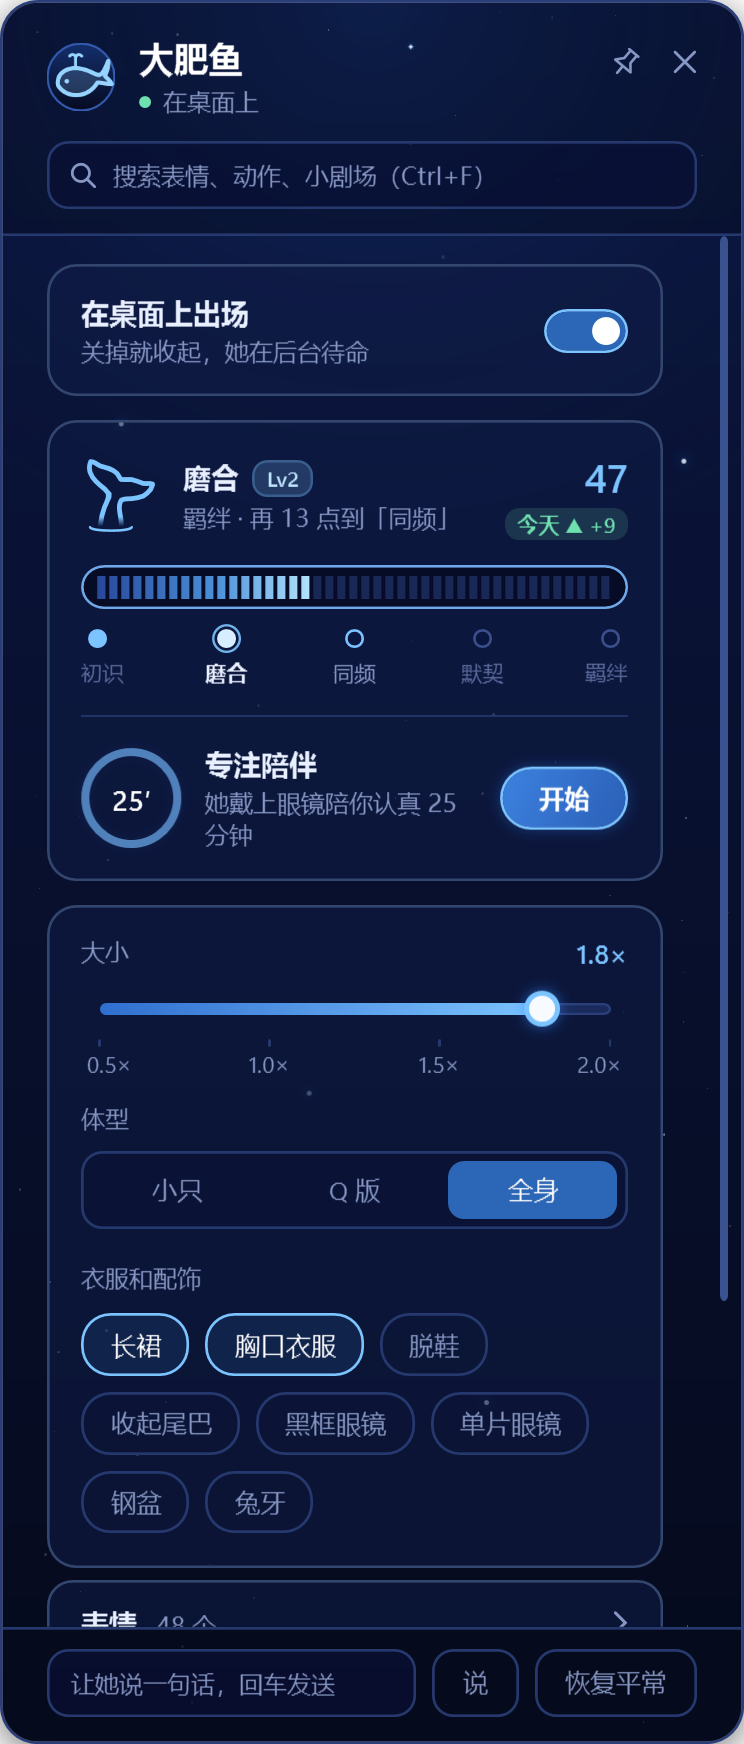
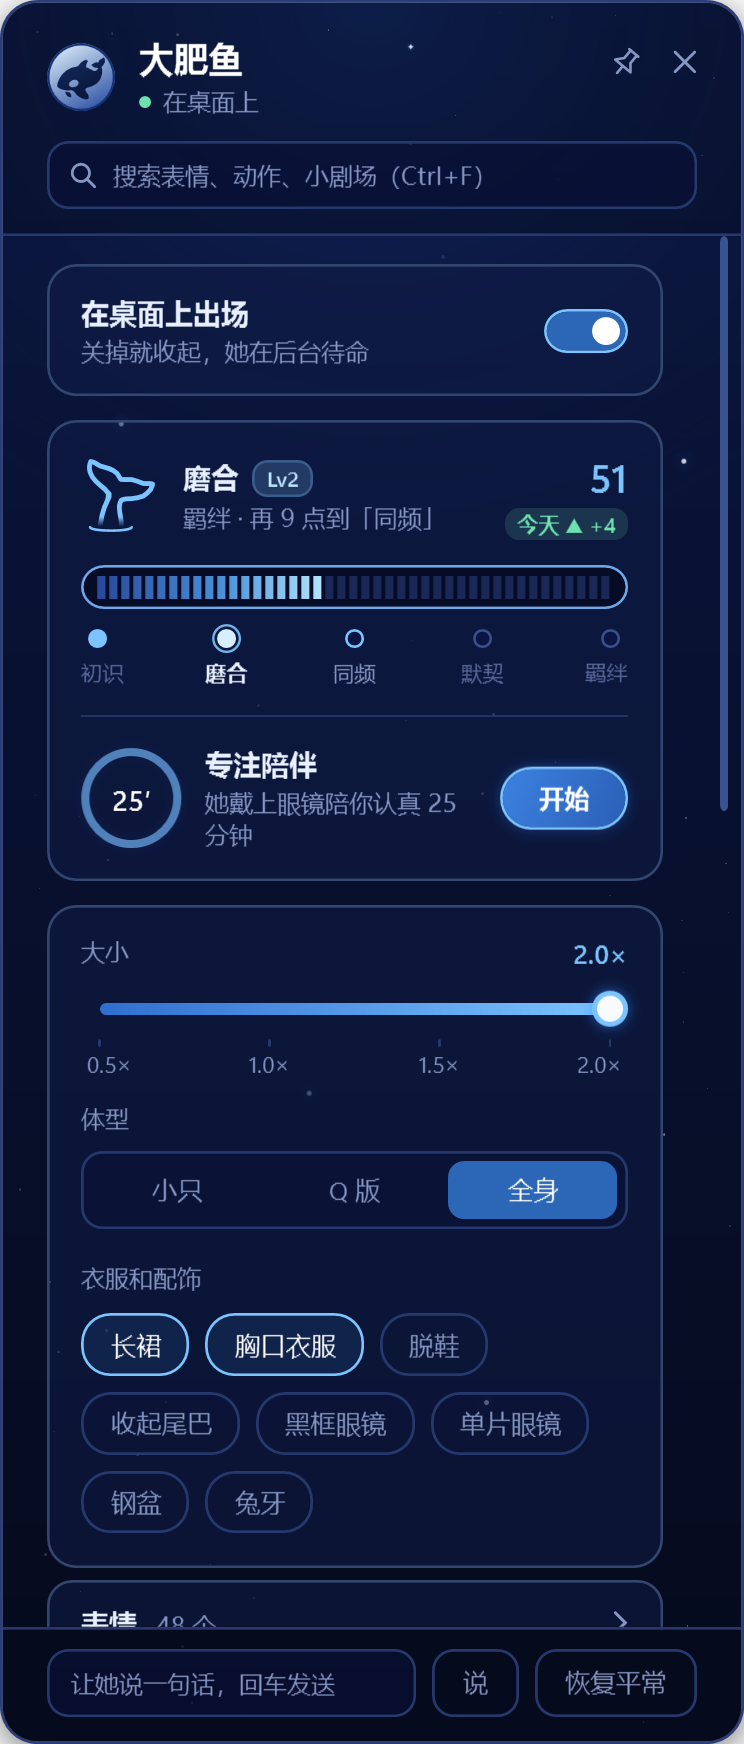
托盘图标换成虎鲸：浅到深的蓝色渐变圆底 + 深蓝虎鲸剪影
轮廓从参考图描出来（WhaleShape.cs），Whale.cs 用平滑曲线画，托盘小图标、窗口图标、面板抬头共用；
介绍页的两张托盘截图一起换成新图标。

diff --git a/tray/FishTray/Whale.cs b/tray/FishTray/Whale.cs
@@ -8,9 +8,13 @@ using System.Windows.Media.Imaging;
 
 namespace FishTray;
 
-// 大肥鱼的图标：深蓝圆底 + 冰蓝线条小鲸鱼。托盘图标、窗口图标、面板抬头都用同一个画法。
+// 大肥鱼的图标：浅到深的蓝色渐变圆底 + 深蓝虎鲸剪影（轮廓见 WhaleShape.cs）。托盘图标、窗口图标、面板抬头都用同一个画法。
 internal static class Whale
 {
+    private const float FishSize = 0.70f;   // 鲸鱼宽度占图标的比例
+    private const float FishDown = 0.02f;   // 往下挪一点，视觉上才在圆里居中（尾鳍那头偏上）
+    private const float GradientAngle = 61.7f; // 渐变方向：左上浅、右下深（x 占 0.35、y 占 0.65）
+
     internal static Bitmap Draw(int s, bool badge = true)
     {
         var bmp = new Bitmap(s, s, PixelFormat.Format32bppArgb);
@@ -18,38 +22,46 @@ internal static class Whale
         g.SmoothingMode = SmoothingMode.AntiAlias;
         g.Clear(Color.Transparent);
         float f = s;
+        var all = new RectangleF(-0.5f, -0.5f, f + 1, f + 1);
         if (badge)
         {
-            using var back = new LinearGradientBrush(new RectangleF(0, 0, f, f), Color.FromArgb(255, 20, 46, 108), Color.FromArgb(255, 5, 10, 32), 90f);
+            using var back = new LinearGradientBrush(all, Color.FromArgb(255, 232, 248, 255), Color.FromArgb(255, 28, 66, 156), GradientAngle);
             g.FillEllipse(back, 0.5f, 0.5f, f - 1, f - 1);
-            using var rim = new Pen(Color.FromArgb(255, 52, 92, 178), Math.Max(1f, f * 0.03f));
-            g.DrawEllipse(rim, 0.75f, 0.75f, f - 1.75f, f - 1.75f);
+            // 圆边：比底色深一档，细边和浅色底不会糊在一起
+            float rim = Math.Max(1f, f * 0.03f);
+            using var rimPen = new Pen(Color.FromArgb(255, 20, 50, 118), rim);
+            float inset = 0.5f + rim / 2;
+            g.DrawEllipse(rimPen, inset, inset, f - 2 * inset, f - 2 * inset);
         }
-        var ice = Color.FromArgb(255, 150, 212, 255);
-        float w = Math.Max(1.5f, f * 0.062f);
-        PointF P(double x, double y) => new((float)(x * f), (float)(y * f));
-        using var body = new GraphicsPath();
-        body.AddBezier(P(.16, .62), P(.13, .42), P(.33, .33), P(.52, .38)); // 背（头更圆）
-        body.AddBezier(P(.52, .38), P(.64, .41), P(.70, .46), P(.76, .47)); // 到尾柄，往上翘
-        body.AddBezier(P(.76, .47), P(.82, .46), P(.85, .38), P(.90, .26)); // 尾鳍上叶（翘高）
-        body.AddBezier(P(.90, .26), P(.90, .38), P(.87, .44), P(.85, .48)); // 尾鳍缺口
-        body.AddBezier(P(.85, .48), P(.88, .52), P(.92, .54), P(.95, .60)); // 尾鳍下叶
-        body.AddBezier(P(.95, .60), P(.86, .60), P(.80, .58), P(.74, .58)); // 回到尾柄
-        body.AddBezier(P(.74, .58), P(.60, .82), P(.28, .82), P(.16, .62)); // 肚皮（更圆润）
-        body.CloseFigure();
-        using (var fill = new SolidBrush(Color.FromArgb(48, ice))) g.FillPath(fill, body);
-        using var pen = new Pen(ice, w) { LineJoin = LineJoin.Round, StartCap = LineCap.Round, EndCap = LineCap.Round };
-        g.DrawPath(pen, body);
-        using (var eye = new SolidBrush(ice)) g.FillEllipse(eye, P(.29, .56).X - w * .55f, P(.29, .56).Y - w * .55f, w * 1.1f, w * 1.1f);
-        if (s >= 24)
-        {
-            // 喷泉：一根短柱，顶上向两边洒开
-            using var spout = new Pen(ice, Math.Max(1.2f, w * .7f)) { StartCap = LineCap.Round, EndCap = LineCap.Round };
-            g.DrawLine(spout, P(.42, .345), P(.42, .22));
-            g.DrawBezier(spout, P(.42, .22), P(.42, .17), P(.37, .15), P(.33, .19));
-            g.DrawBezier(spout, P(.42, .22), P(.42, .17), P(.47, .15), P(.51, .19));
-        }
+        using var path = FishPath(f);
+        using var fish = new LinearGradientBrush(all, Color.FromArgb(255, 22, 50, 112), Color.FromArgb(255, 6, 12, 36), GradientAngle);
+        g.FillPath(fish, path);
         return bmp;
+    }
+
+    // 把 WhaleShape 里的点连成平滑的闭合曲线：每相邻两点之间用 Catmull-Rom 换成的贝塞尔
+    private static GraphicsPath FishPath(float f)
+    {
+        var path = new GraphicsPath(FillMode.Alternate);
+        foreach (var loop in WhaleShape.Loops)
+        {
+            int n = loop.Length / 2;
+            PointF P(int i)
+            {
+                i = ((i % n) + n) % n;
+                return new PointF((loop[i * 2] * FishSize + 0.5f) * f, (loop[i * 2 + 1] * FishSize + 0.5f + FishDown) * f);
+            }
+            path.StartFigure();
+            for (int i = 0; i < n; i++)
+            {
+                PointF p0 = P(i - 1), p1 = P(i), p2 = P(i + 1), p3 = P(i + 2);
+                var c1 = new PointF(p1.X + (p2.X - p0.X) / 6f, p1.Y + (p2.Y - p0.Y) / 6f);
+                var c2 = new PointF(p2.X - (p3.X - p1.X) / 6f, p2.Y - (p3.Y - p1.Y) / 6f);
+                path.AddBezier(p1, c1, c2, p2);
+            }
+            path.CloseFigure();
+        }
+        return path;
     }
 
     internal static Icon Icon(int s)

diff --git a/tray/FishTray/WhaleShape.cs b/tray/FishTray/WhaleShape.cs
@@ -1,0 +1,13 @@
+namespace FishTray;
+
+// 虎鲸的轮廓：从参考图描出来的点（以图标中心为原点、宽度 1 为单位），每一圈是一条闭合曲线，
+// 画的时候用 Catmull-Rom 平滑成贝塞尔，孔（肚子上的白斑）和外轮廓放在同一条路径里，奇偶填充就镂空了。
+internal static class WhaleShape
+{
+    internal static readonly float[][] Loops =
+    {
+        new float[] { -0.3308f, 0.2835f, -0.3296f, 0.2984f, -0.3172f, 0.3276f, -0.3036f, 0.3490f, -0.2809f, 0.3730f, -0.2596f, 0.3872f, -0.2343f, 0.3963f, -0.2200f, 0.3970f, -0.2129f, 0.3918f, -0.2090f, 0.3795f, -0.2122f, 0.3419f, -0.2233f, 0.3166f, -0.2388f, 0.2984f, -0.2518f, 0.2907f, -0.3218f, 0.2797f },  // 轮廓
+        new float[] { 0.4883f, -0.4339f, 0.4812f, -0.4397f, 0.4721f, -0.4391f, 0.4514f, -0.4242f, 0.3970f, -0.3937f, 0.3756f, -0.3710f, 0.3626f, -0.3360f, 0.3224f, -0.3393f, 0.3036f, -0.3354f, 0.2764f, -0.3237f, 0.2194f, -0.2913f, 0.2187f, -0.2835f, 0.2291f, -0.2693f, 0.2511f, -0.2505f, 0.2719f, -0.2375f, 0.3062f, -0.2246f, 0.3516f, -0.2207f, 0.3555f, -0.2181f, 0.3555f, -0.2097f, 0.3386f, -0.1837f, 0.3192f, -0.1662f, 0.3010f, -0.1585f, 0.2758f, -0.1572f, 0.2531f, -0.1636f, 0.1954f, -0.1967f, 0.1235f, -0.2278f, 0.1111f, -0.2362f, 0.1047f, -0.2492f, 0.1053f, -0.2615f, 0.1183f, -0.3108f, 0.1364f, -0.3529f, 0.1371f, -0.3678f, 0.1273f, -0.3846f, 0.1092f, -0.3924f, 0.0943f, -0.3905f, 0.0749f, -0.3833f, 0.0269f, -0.3568f, -0.0178f, -0.3172f, -0.0476f, -0.2771f, -0.0716f, -0.2576f, -0.0852f, -0.2518f, -0.1487f, -0.2395f, -0.1889f, -0.2272f, -0.2317f, -0.2097f, -0.2751f, -0.1870f, -0.3302f, -0.1487f, -0.3736f, -0.1099f, -0.4047f, -0.0742f, -0.4378f, -0.0275f, -0.4682f, 0.0308f, -0.4916f, 0.0969f, -0.5000f, 0.1403f, -0.4987f, 0.1604f, -0.4929f, 0.1760f, -0.4799f, 0.1896f, -0.4430f, 0.2122f, -0.4093f, 0.2278f, -0.3581f, 0.2434f, -0.2991f, 0.2518f, -0.2589f, 0.2518f, -0.2097f, 0.2472f, -0.1792f, 0.2537f, -0.1494f, 0.2725f, -0.1034f, 0.3296f, -0.0781f, 0.3548f, -0.0412f, 0.3840f, -0.0146f, 0.4002f, 0.0373f, 0.4229f, 0.0768f, 0.4339f, 0.1222f, 0.4391f, 0.1416f, 0.4326f, 0.1513f, 0.4242f, 0.1598f, 0.4086f, 0.1610f, 0.3898f, 0.1585f, 0.3730f, 0.1468f, 0.3393f, 0.1086f, 0.2809f, 0.0924f, 0.2511f, 0.0891f, 0.2323f, 0.0930f, 0.2194f, 0.1034f, 0.2064f, 0.1131f, 0.2012f, 0.2194f, 0.1656f, 0.2887f, 0.1312f, 0.3419f, 0.0911f, 0.3710f, 0.0606f, 0.3937f, 0.0295f, 0.4209f, -0.0275f, 0.4378f, -0.0995f, 0.4417f, -0.1371f, 0.4417f, -0.1708f, 0.4378f, -0.2077f, 0.4300f, -0.2447f, 0.4546f, -0.2667f, 0.4773f, -0.2965f, 0.4896f, -0.3224f, 0.4961f, -0.3451f, 0.4987f, -0.3885f },  // 轮廓
+        new float[] { -0.0645f, 0.0574f, -0.0541f, 0.0826f, -0.0541f, 0.1027f, -0.0587f, 0.1176f, -0.0716f, 0.1390f, -0.0833f, 0.1513f, -0.1170f, 0.1734f, -0.1351f, 0.1805f, -0.1598f, 0.1857f, -0.1935f, 0.1844f, -0.2135f, 0.1785f, -0.2304f, 0.1688f, -0.2492f, 0.1461f, -0.2537f, 0.1196f, -0.2505f, 0.1027f, -0.2434f, 0.0872f, -0.2246f, 0.0638f, -0.1896f, 0.0405f, -0.1533f, 0.0295f, -0.1176f, 0.0288f, -0.0969f, 0.0340f, -0.0839f, 0.0405f },  // 孔（肚子上的白斑）
+    };
+}
